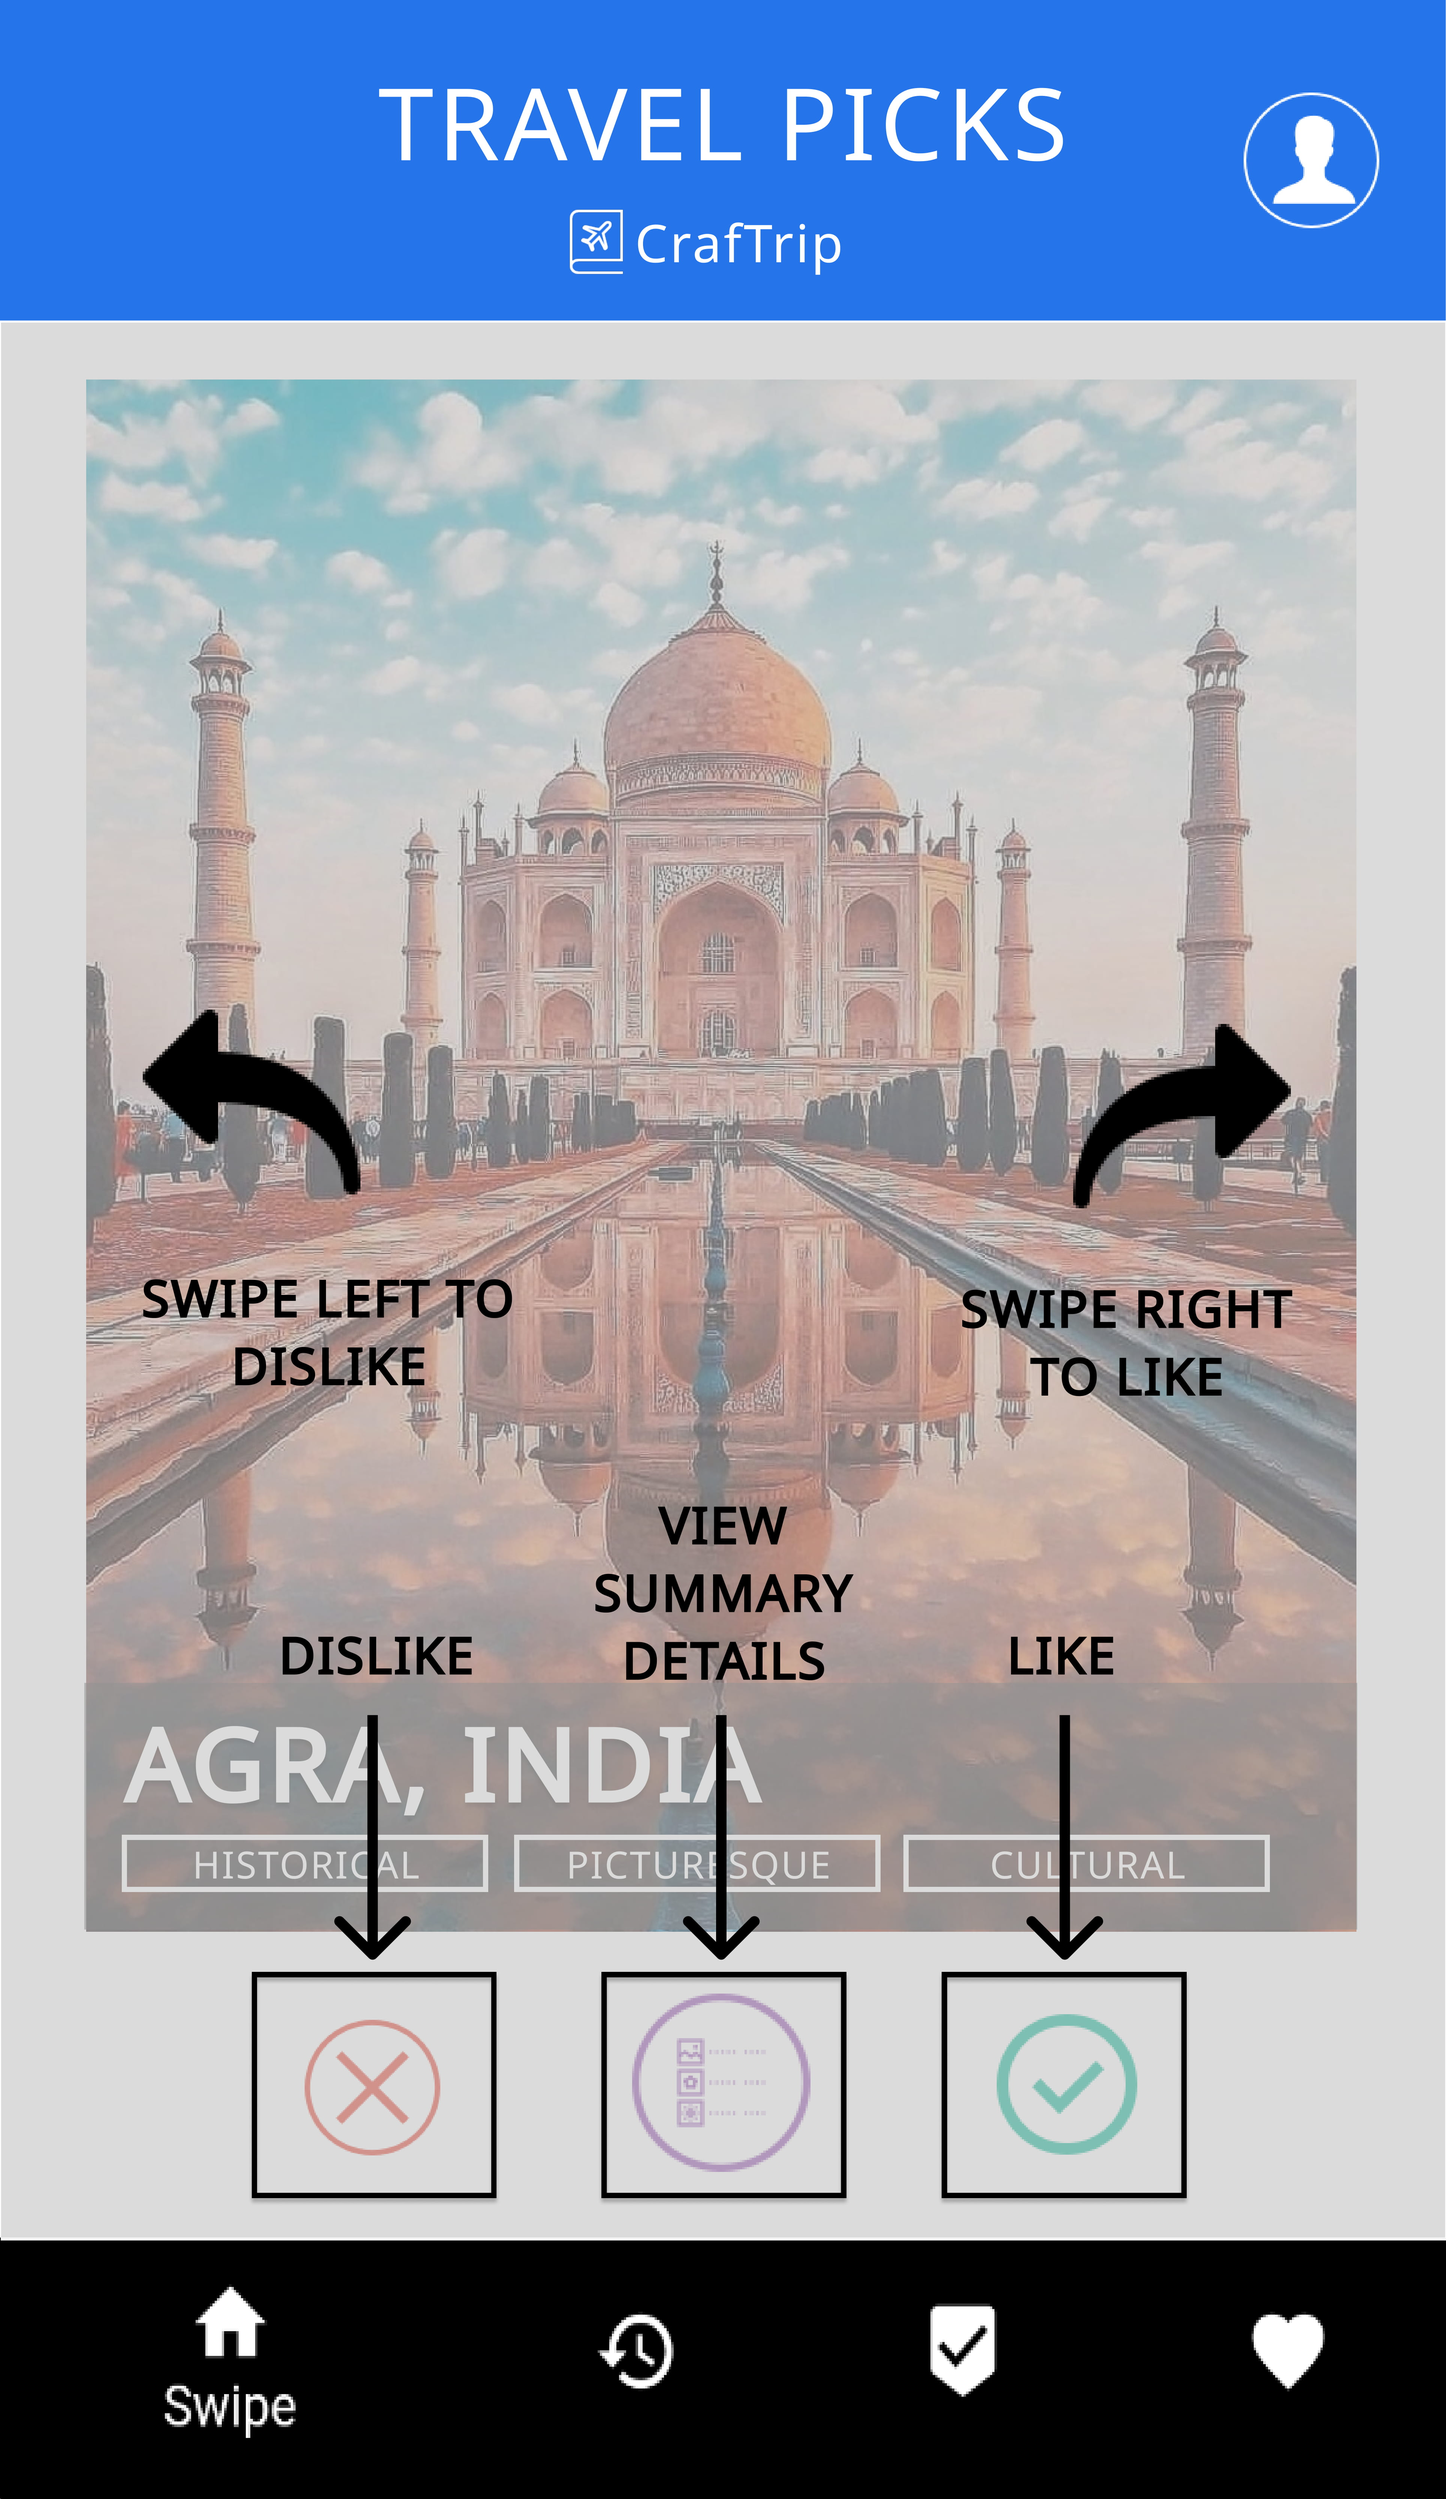
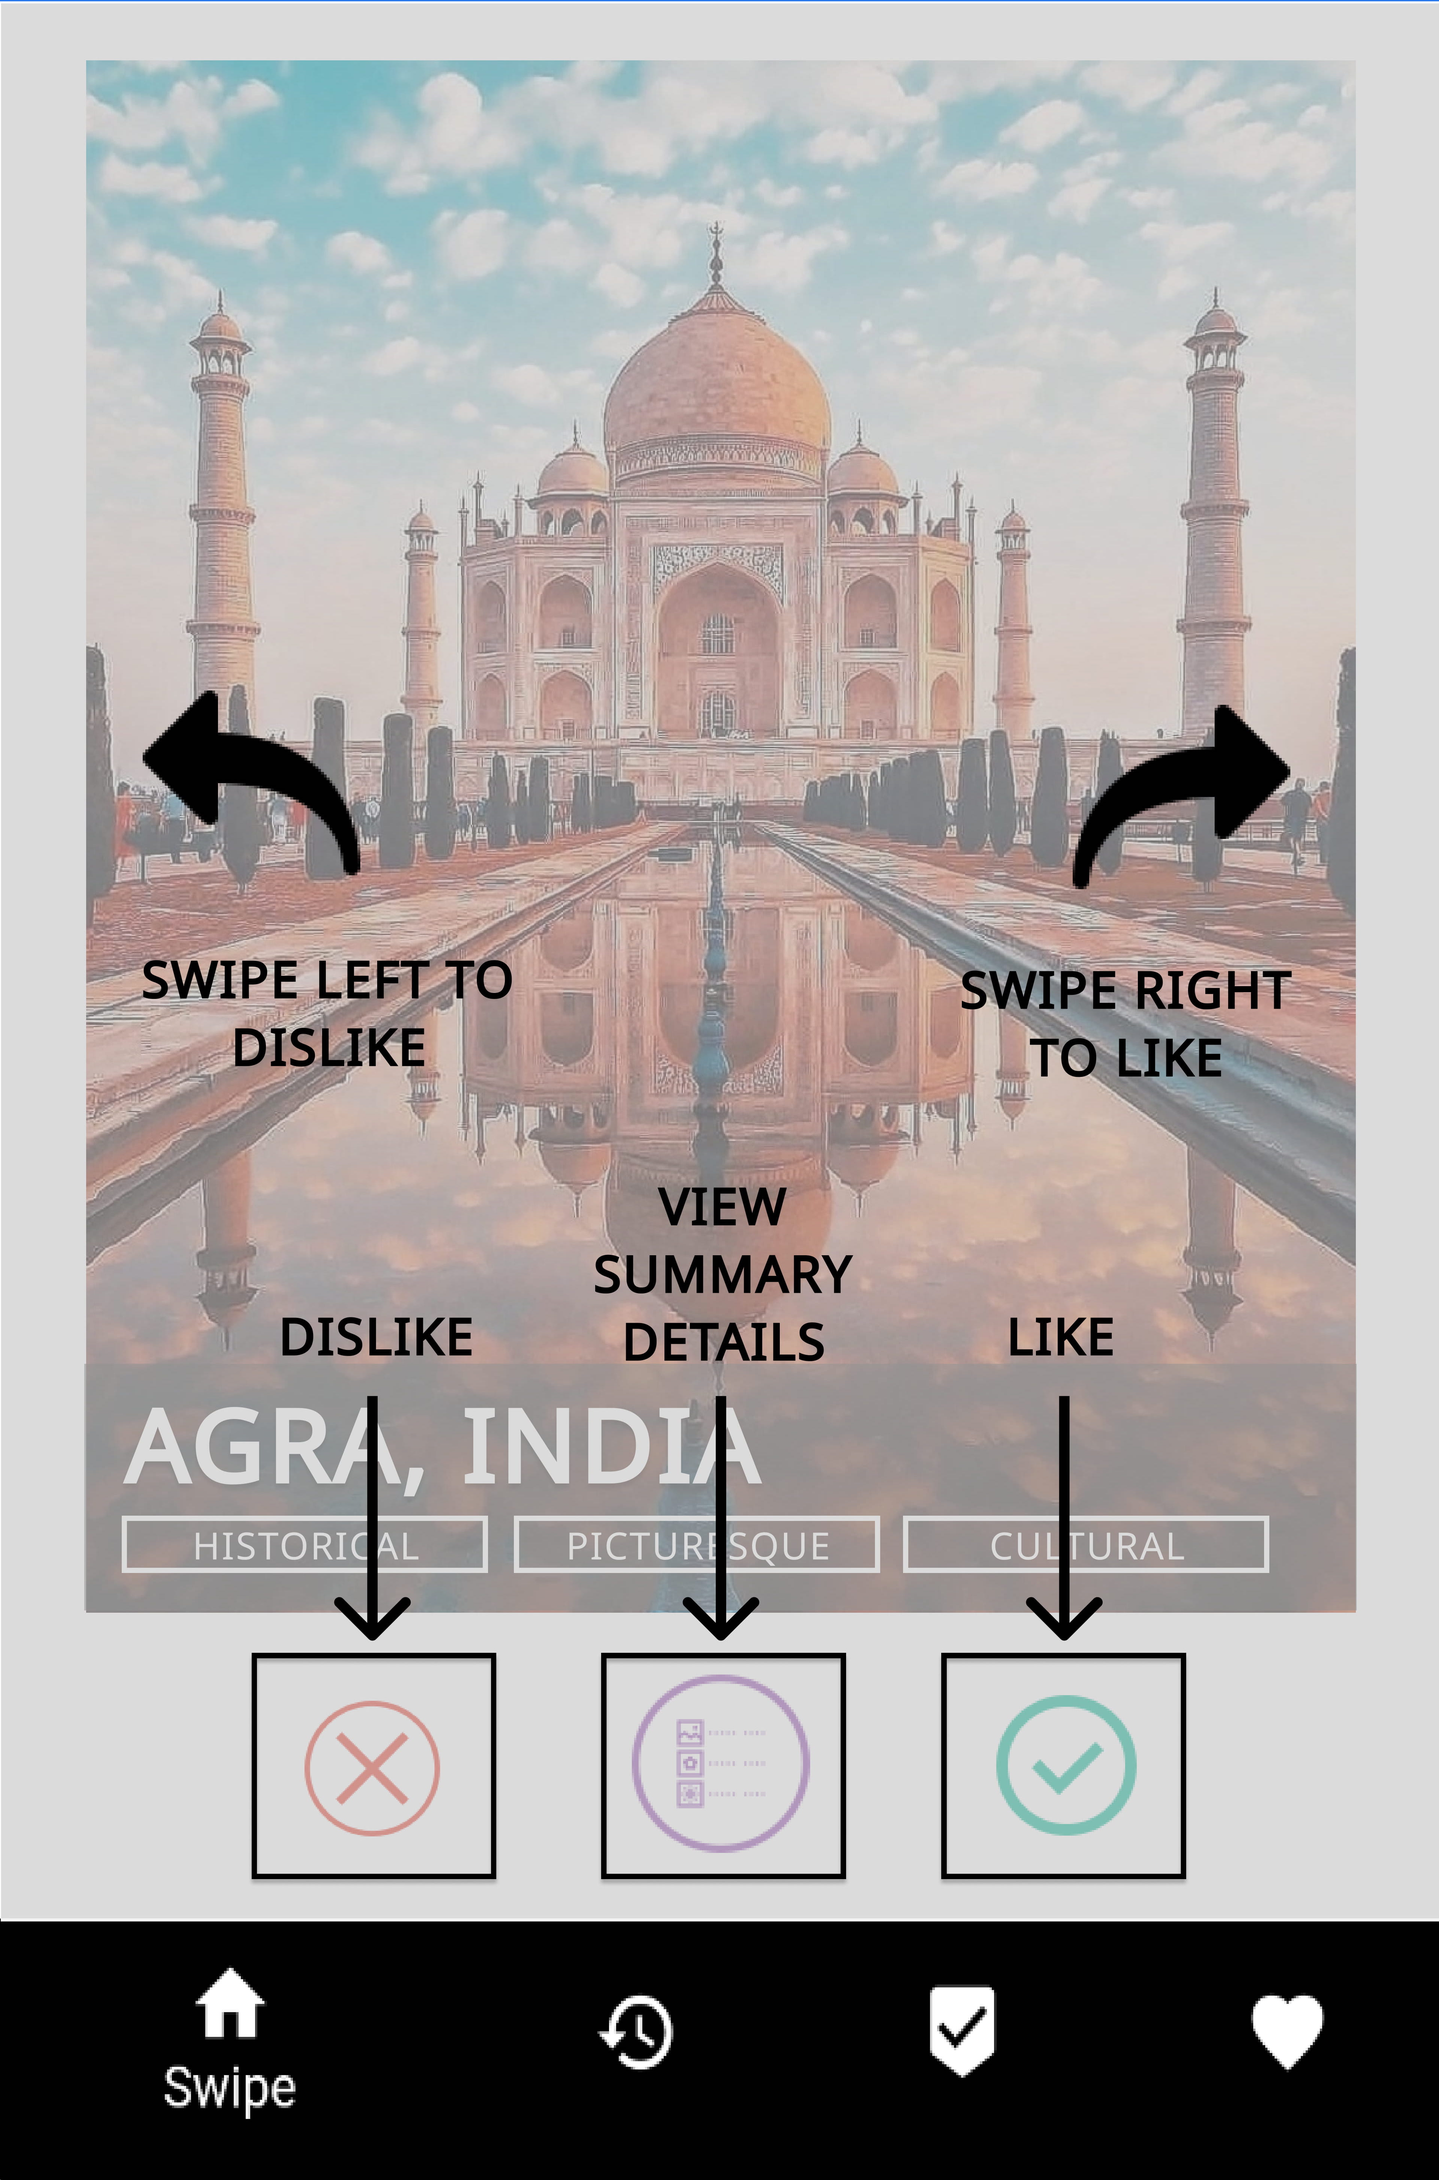
bug fix

diff --git a/lib/screens/travelPicks/swipes_tutorial.dart b/lib/screens/travelPicks/swipes_tutorial.dart
@@ -12,11 +12,62 @@ class _SwipesTutorialState extends State<SwipesTutorial> {
   @override
   Widget build(BuildContext context) {
     return Scaffold(
-      
+
+      appBar: AppBar(
+        title: Column(
+          children: <Widget>[
+            Padding(
+                padding: const EdgeInsets.fromLTRB(0.0, 0.0, 0.0, 0.0),
+                child: Text('TRAVEL PICKS TUTORIAL',
+                  style: TextStyle(
+                      fontSize: 26
+                  ),)),
+            Padding(
+              padding: const EdgeInsets.fromLTRB(0.0, 5.0, 0.0, 0.0),
+              child:
+              Row(
+                mainAxisAlignment: MainAxisAlignment.center,
+                children: <Widget>[
+                  SizedBox(
+                    height: 15.0,
+                    width:30.0,
+                    child: Image.asset('assets/TravelDiaryIcon.png'),
+                  ),
+                  Text('CrafTrip',
+                    style: TextStyle(
+                        fontSize: 10
+                    ),),
+                ],
+              ),)
+
+          ],
+        ),
+        centerTitle: true,
+        backgroundColor: Color(0xff2675eb),
+
+
+        actions: <Widget>[
+          IconButton(
+            icon: Icon(
+              Icons.account_circle,
+              color: Colors.white,
+            ),
+            onPressed: () {
+//              // Should go to User Account page
+//              // UserAccount()
+//              Navigator.push(
+//                context,
+//                MaterialPageRoute(builder: (context) => UserAccount()),
+//              );
+            },
+          )
+        ],
+      ),
+
       body: Container(
         decoration: BoxDecoration(
           image: DecorationImage(
-            image: NetworkImage('https://firebasestorage.googleapis.com/v0/b/craftrip-594f5.appspot.com/o/tutorial%2FSwipesTutorial.jpg?alt=media&token=f14afa67-f38b-4c9f-901a-4ef92ed36671'), 
+            image: AssetImage('assets/SwipesTutorial.jpg'),
               fit: BoxFit.cover,
             ),
           ),

diff --git a/lib/services/flightsController.dart b/lib/services/flightsController.dart
@@ -55,7 +55,7 @@ class FlightsManager{
     request.headers.set('x-rapidapi-host',
         'skyscanner-skyscanner-flight-search-v1.p.rapidapi.com');
     request.headers.set(
-        'x-rapidapi-key', '341ba80016msheba760a20adf362p132e66jsn6a378a486e17');
+        'x-rapidapi-key', 'f37b903126mshbb4e67664b3aa09p12bf56jsn0145a8f2442e');
     request.headers.set('content-type', "application/x-www-form-urlencoded");
 
     String payload = "inboundDate=$retDate&cabinClass=$cabinClass&children=0&infants=0&country=SG&currency=SGD&locale=en-SGD&originPlace=SIN-sky&destinationPlace=$cityID&outboundDate=$depDate&adults=1";
@@ -96,7 +96,7 @@ class FlightsManager{
 
       var headers = {
         'x-rapidapi-host': "skyscanner-skyscanner-flight-search-v1.p.rapidapi.com",
-        'x-rapidapi-key': "341ba80016msheba760a20adf362p132e66jsn6a378a486e17"};
+        'x-rapidapi-key': "f37b903126mshbb4e67664b3aa09p12bf56jsn0145a8f2442e"};
       var url2 = "https://skyscanner-skyscanner-flight-search-v1.p.rapidapi.com/apiservices/pricing/uk2/v1.0/" +
           sessionKey;
 
@@ -175,7 +175,7 @@ class FlightsManager{
 
     Map<String, String> headers = {
       "x-rapidapi-host": "skyscanner-skyscanner-flight-search-v1.p.rapidapi.com",
-      "x-rapidapi-key": "05ee9d29e9mshdb3a23b67be49a7p160010jsn758c99761aa3"
+      "x-rapidapi-key": "f37b903126mshbb4e67664b3aa09p12bf56jsn0145a8f2442e"
     };
     print("Sending response");
     final response = await http.get(url, headers: headers);

diff --git a/lib/services/registerController.dart b/lib/services/registerController.dart
@@ -17,13 +17,9 @@ class RegisterModel {
 
     if(user!=null){
       await Firestore.instance.collection('users').document(user.uid).setData({ 'uid': user.uid, 'firstame': firstname, 'lastname': lastname });
-      Collections().getDestinations(email);
+      Collections().getDestinations(user.uid);
     }
 
     return user;
   }
-
-
-
-
 }
